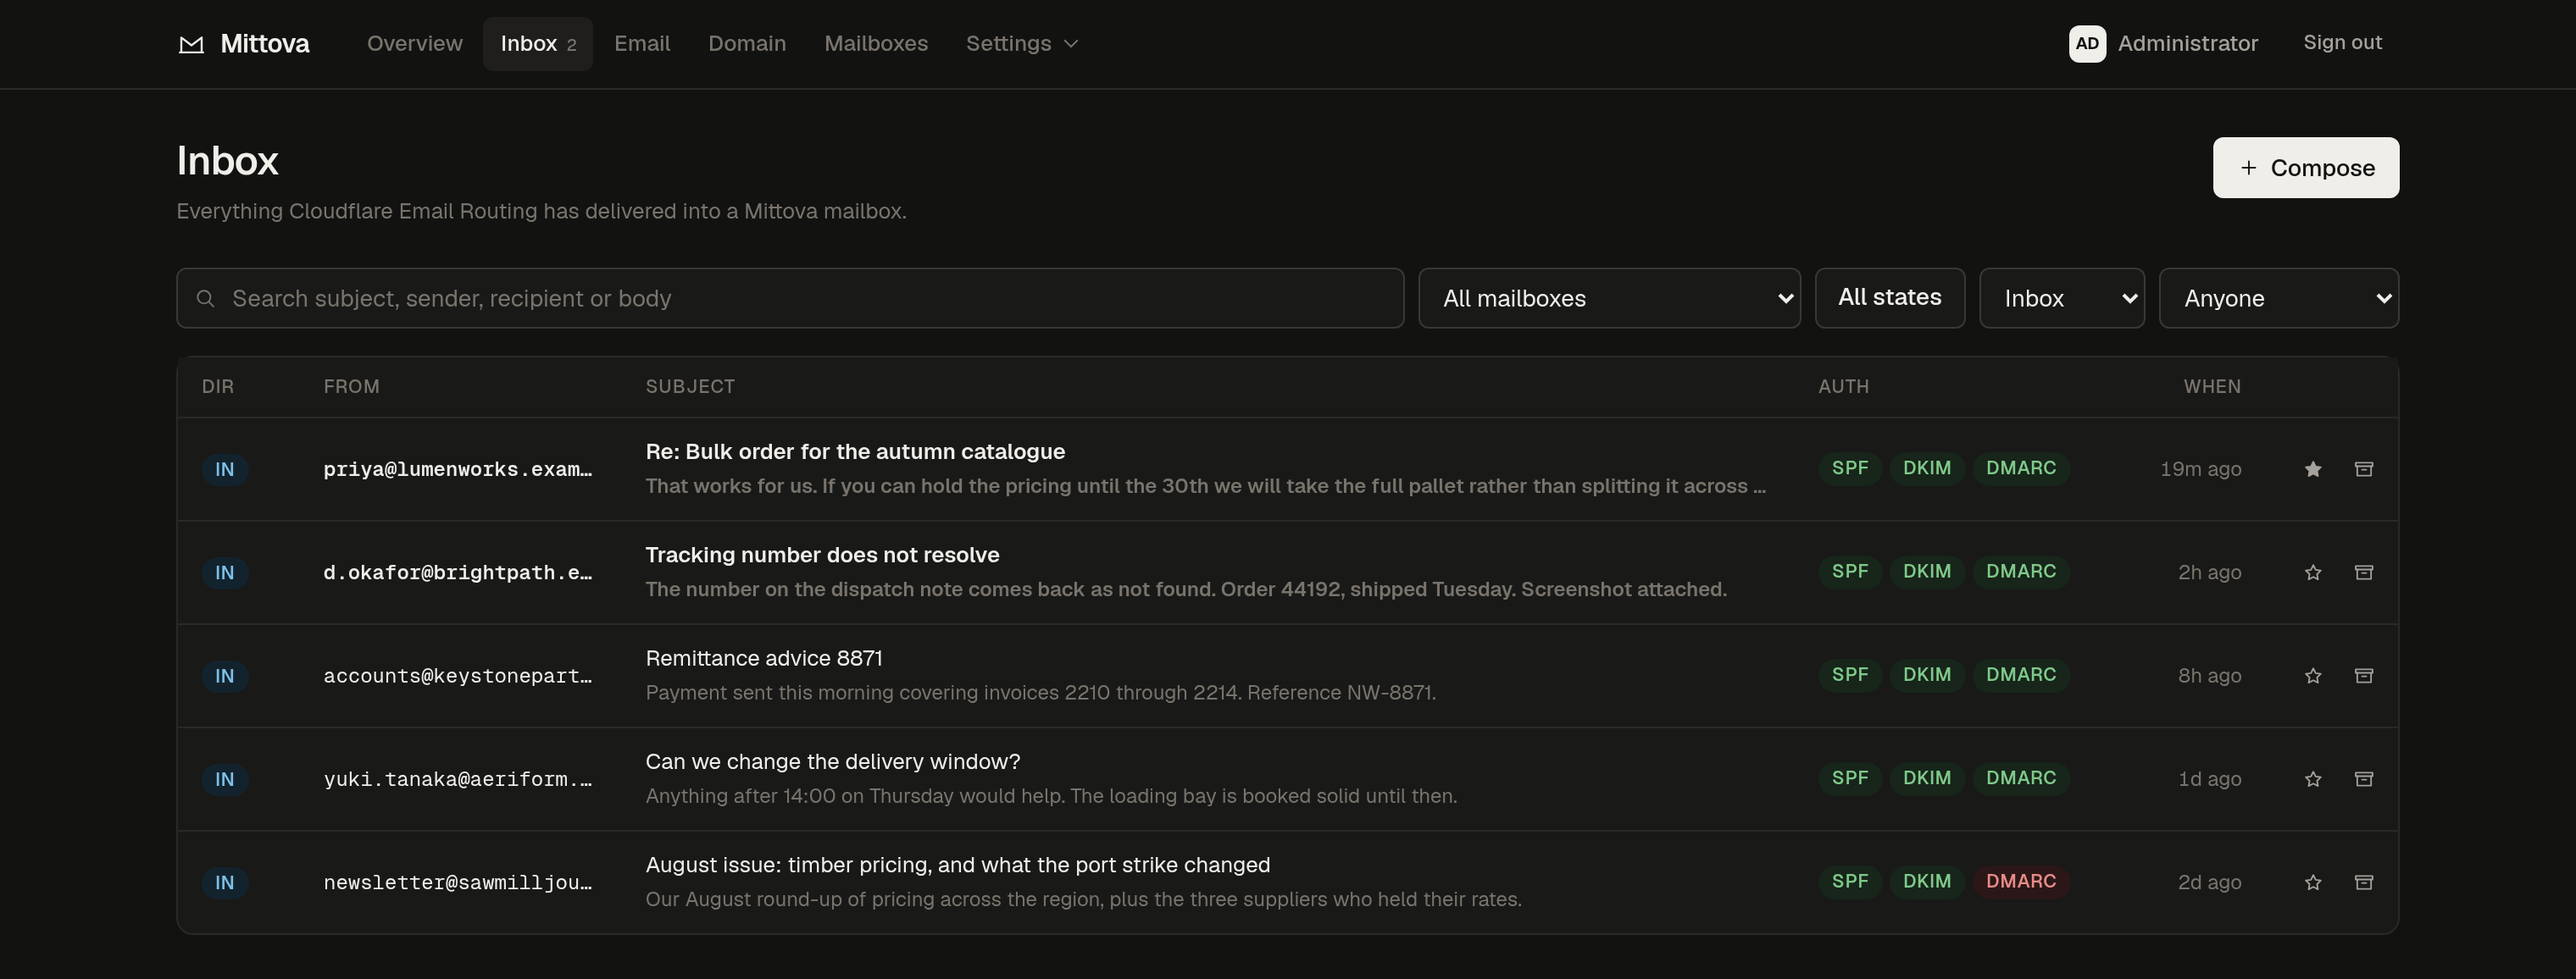
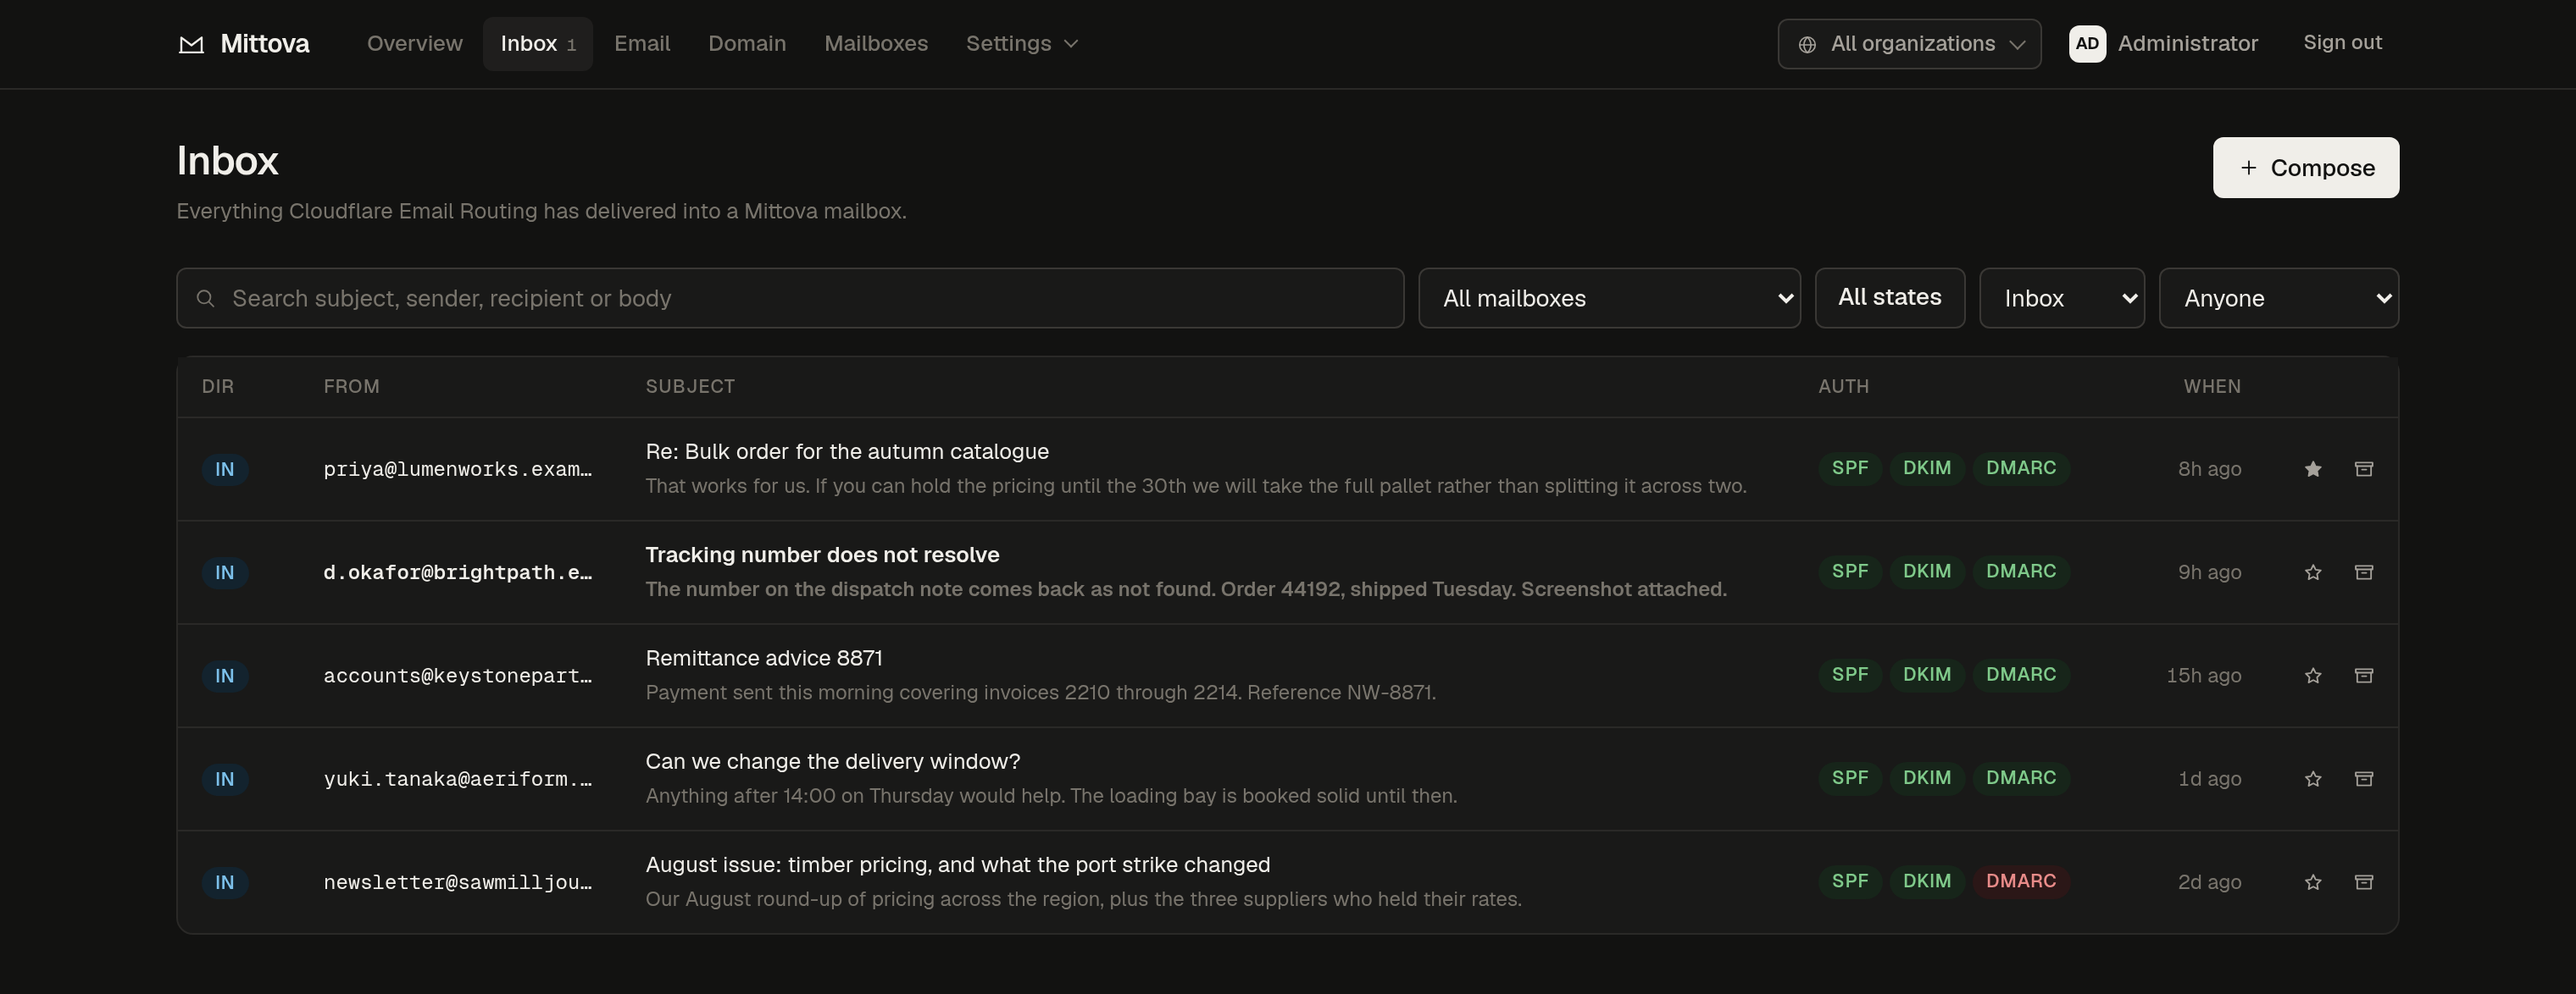
docs: show more of the dashboard in the readme
Four more screens behind a collapsed section, so the readme still opens on
one image: reading a message, users and roles, templates, and API keys.

Same provenance as the first: fictional content on reserved TLDs, captured
against a local database. The key previews and password hashes in them are
placeholders that have never corresponded to anything.

Domains is deliberately absent. That page resolves records over public DNS,
so a domain invented for a screenshot can only ever render as unpublished,
and a wall of red says nothing true about the software.

diff --git a/README.md b/README.md
@@ -50,6 +50,42 @@ your own Cloudflare resources.
 - **Multiple domains** from one deployment, added from the dashboard, each owned by an
   organization
 
+<details>
+<summary><b>More of the dashboard</b> — reading mail, users and roles, templates, API keys</summary>
+<br>
+
+Reading a message. Authentication results are shown per message, the raw source and headers are one
+click away, and remote HTML renders in a sandboxed iframe so it cannot script the dashboard.
+
+<picture>
+  <source media="(prefers-color-scheme: dark)" srcset=".github/assets/message-dark.png">
+  <img src=".github/assets/message-light.png" alt="A message open in the reading pane, showing From, To, Date, Size and Message-ID, SPF DKIM and DMARC all passing, and the formatted body" width="100%">
+</picture>
+
+Users and roles. Members see only the mailboxes assigned to them; owners manage the organization.
+
+<picture>
+  <source media="(prefers-color-scheme: dark)" srcset=".github/assets/users-dark.png">
+  <img src=".github/assets/users-light.png" alt="The users table listing owners and members with the mailboxes each can see and when they last signed in" width="100%">
+</picture>
+
+Templates, reusable from the composer or by passing `template` to the send API.
+
+<picture>
+  <source media="(prefers-color-scheme: dark)" srcset=".github/assets/templates-dark.png">
+  <img src=".github/assets/templates-light.png" alt="The template gallery, three templates with live previews and variable placeholders" width="100%">
+</picture>
+
+API keys. Restricted keys may send as exactly one mailbox; only a SHA-256 hash is stored, so the
+plaintext is shown once and never again.
+
+<picture>
+  <source media="(prefers-color-scheme: dark)" srcset=".github/assets/keys-dark.png">
+  <img src=".github/assets/keys-light.png" alt="The API keys table showing key previews, scope, the mailbox each is restricted to, and last use" width="100%">
+</picture>
+
+</details>
+
 ## Requirements
 
 - A domain using Cloudflare DNS
